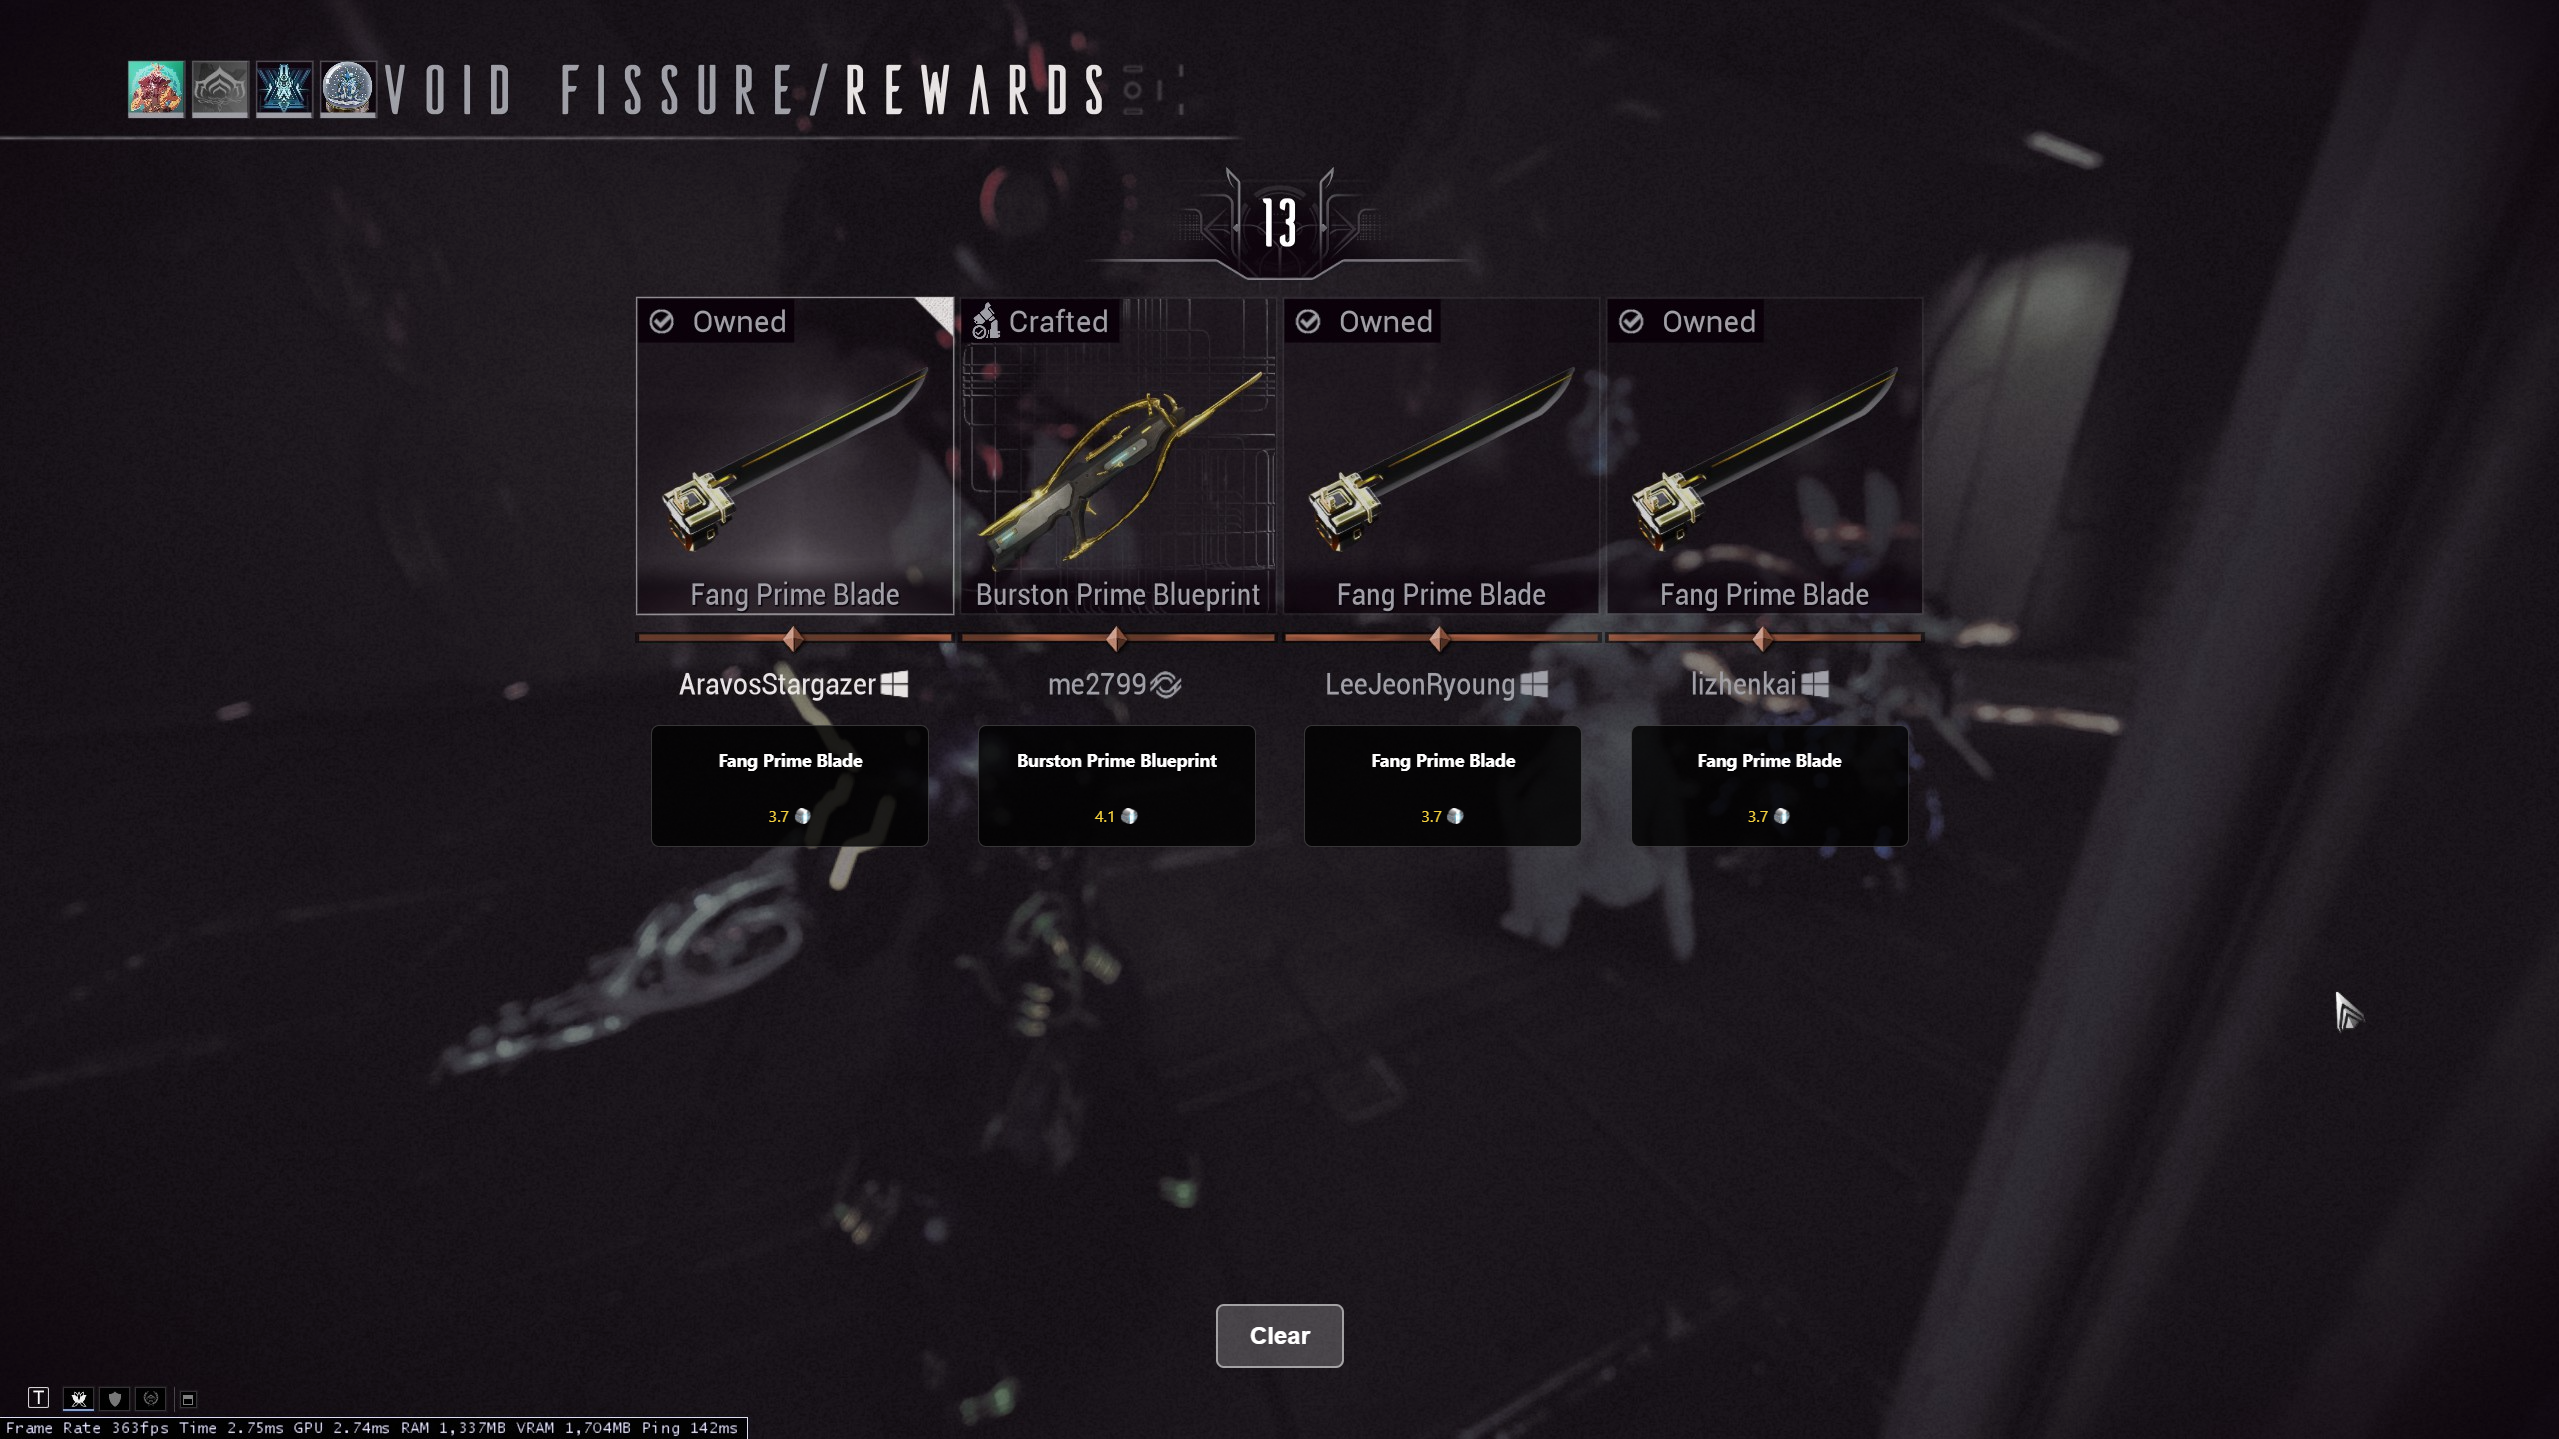
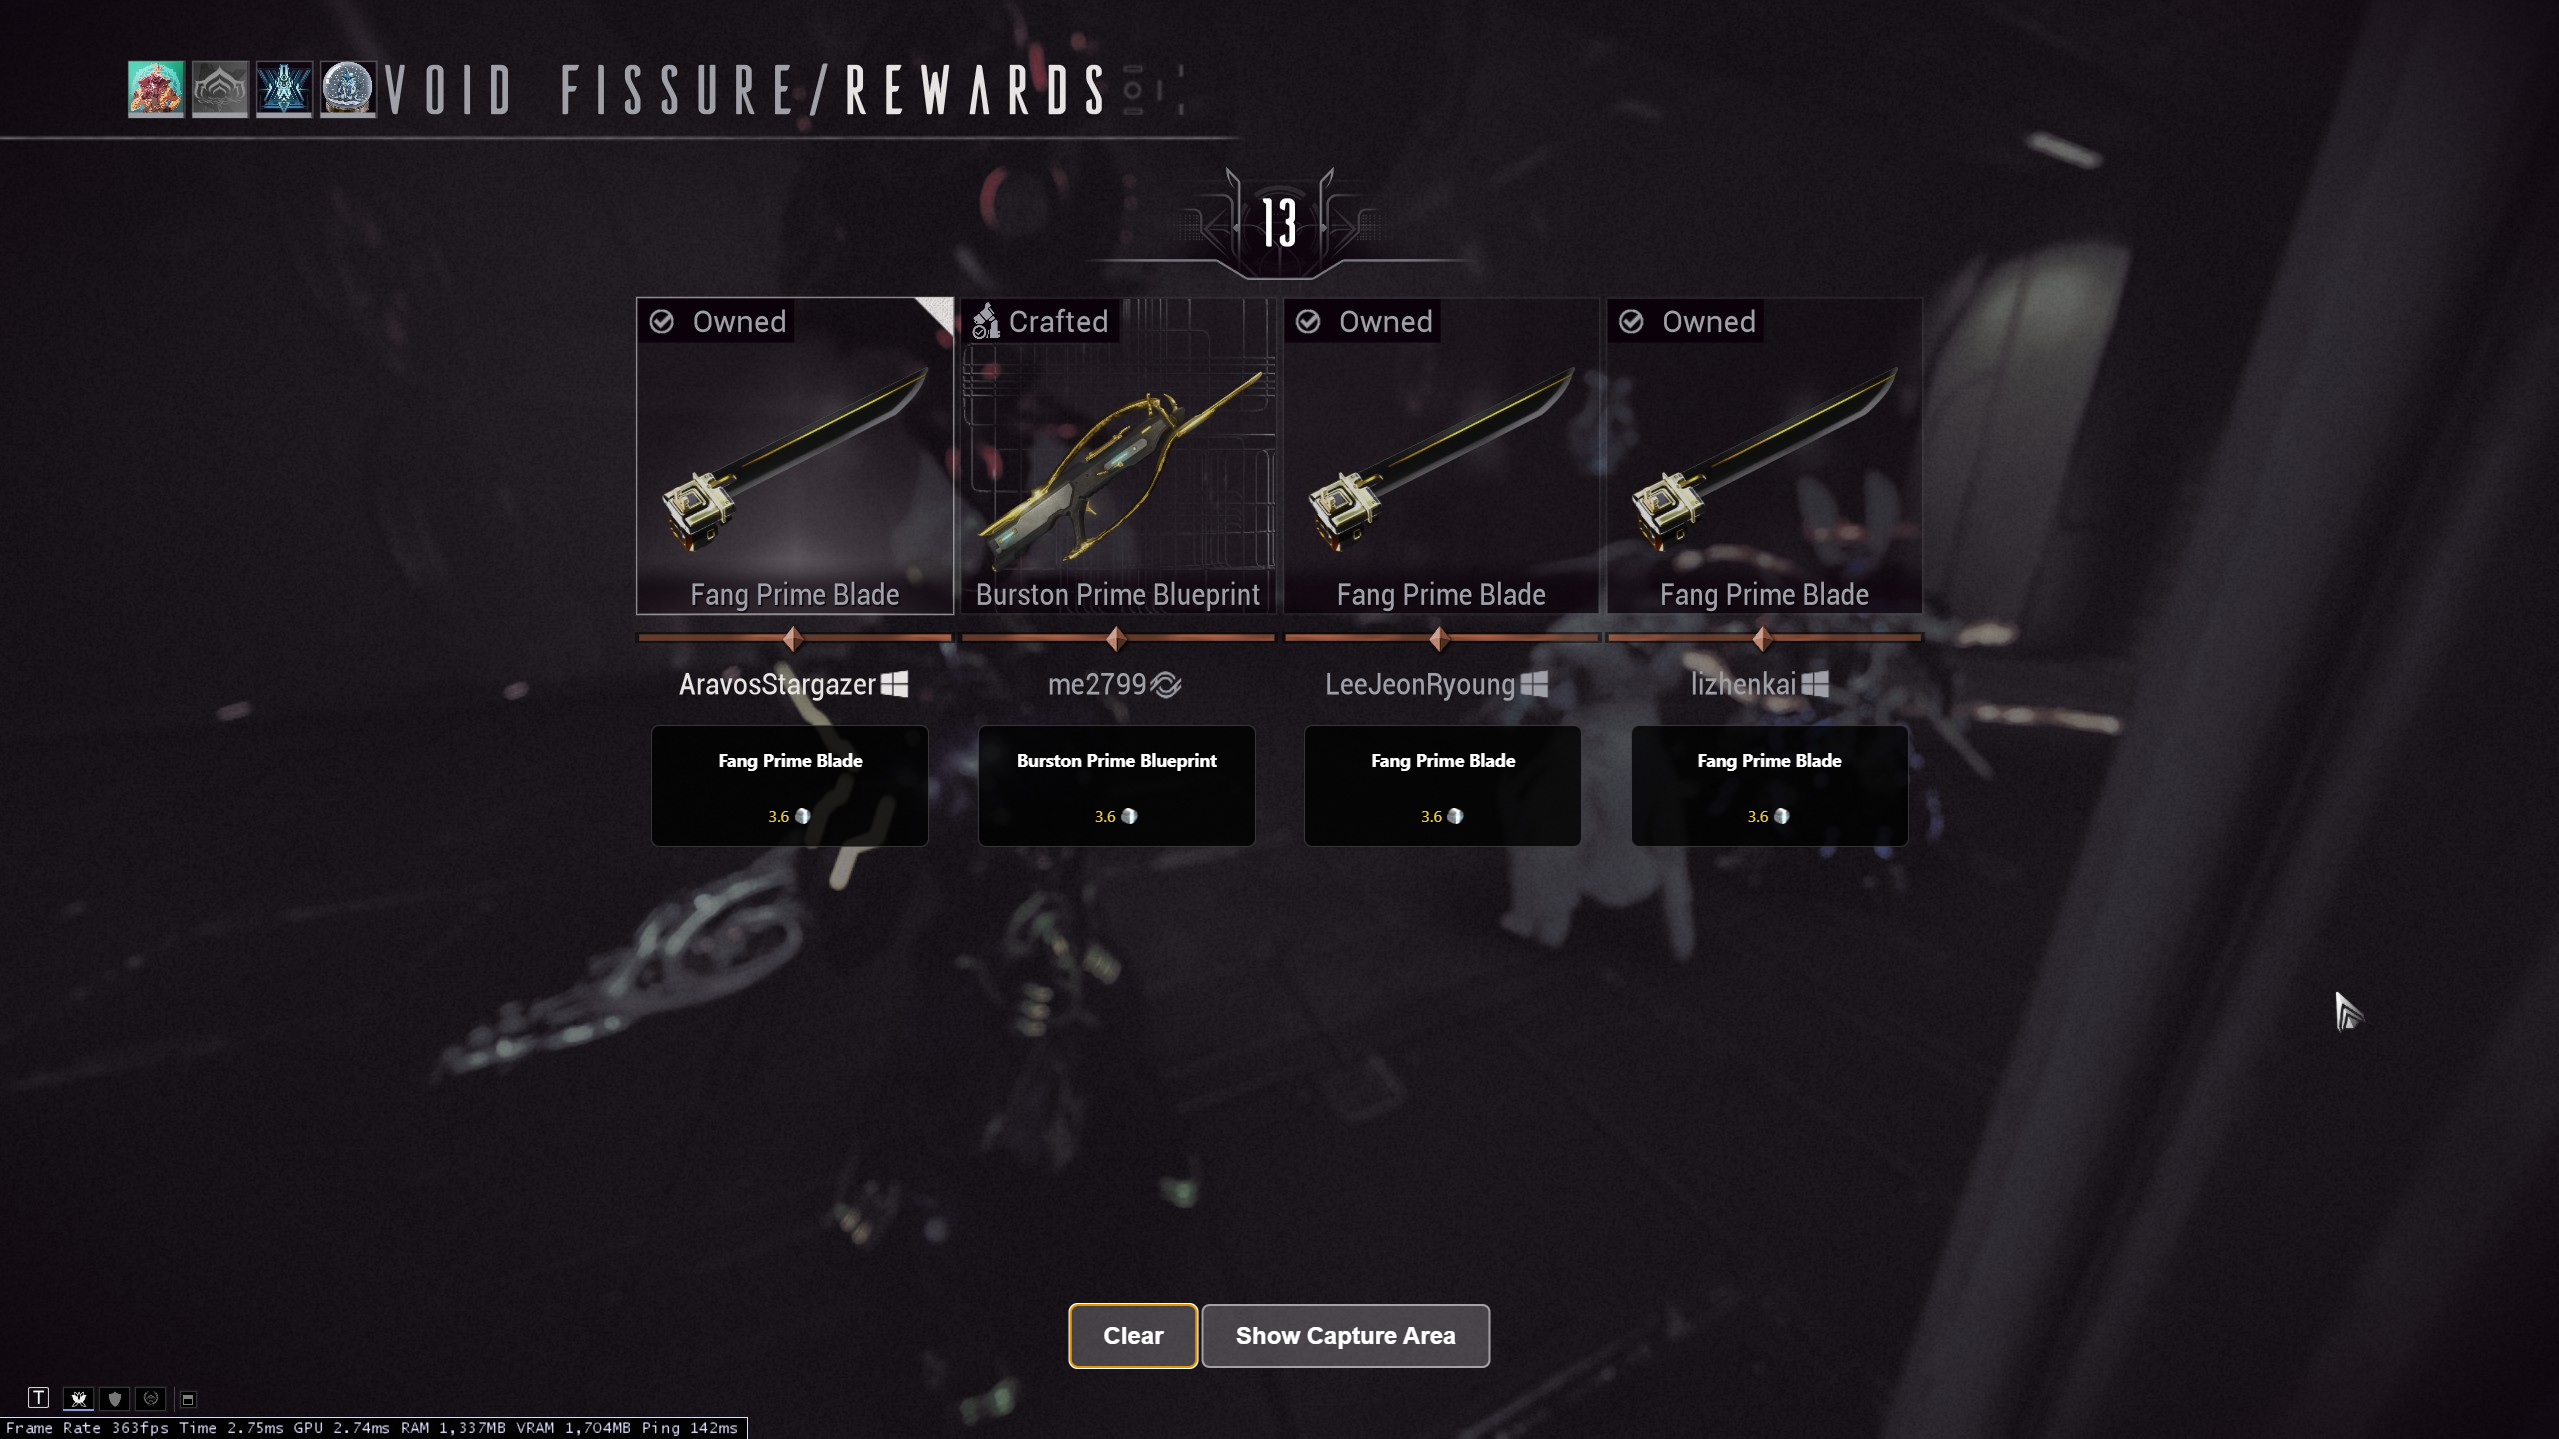
Readme+Screenshots

Changed region(s): [[0.4013, 0.8867, 0.5866, 0.9785]]

diff --git a/README.md b/README.md
@@ -1,43 +1,110 @@
 # Warframe Relic Runner
 
-Warframe Relic Runner is an overlay tool for Warframe that helps you quickly evaluate the average Platinum value of relic rewards, making it easier to decide which Prime part to select.
+**Warframe Relic Runner** is an overlay tool for Warframe that helps you quickly evaluate the average Platinum value of relic rewards, making it easier to decide which Prime Part to select.
 
-## Features
-- Captures a screenshot of your game when you crack open a relic.
-- Extracts text using OCR to identify Prime parts.
-- Fetches the average market value of the Prime parts from Warframe Market.
-- Displays the part values on-screen, allowing you to make informed decisions.
-- Works for solo play or in teams of 1-4 players.
+## 📌 Features
+- 📸 **Screenshot Capture** – Captures a screenshot when you crack open a relic.
+- 🔍 **OCR Extraction** – Uses Tesseract.js to extract text and identify Prime parts.
+- 💰 **Market Price Lookup** – Fetches the average market value from Warframe Market.
+- ✅ **Informed Decision Making** – Displays Prime Part values on-screen to help you choose the best reward.
+- 👥 **Team Support** – Works in solo play or teams of 1–4 players.
+- 🎛 **Adjustable Capture Area** – Use slider controls to modify the OCR capture region.
+- ⚖ **TOS Friendly** – This tool only captures screenshots and does **not** read game memory, making it compliant with Warframe’s Terms of Service.
 
-## Installation & Setup
-### Clone the repository
+---
+
+## 🛠 Installation & Setup
+
+### 🔽 Clone the Repository
 ```sh
 git clone https://github.com/Aravos/Warframe-RelicRunner.git
-cd WF-GarbageGauge
+cd Warframe-RelicRunner
 ```
 
-### Install dependencies
+### 📦 Install Dependencies
 ```sh
 npm install
 ```
 
-### Run the application
+### ▶ Run the Application
 ```sh
 npm run
 ```
 
-## Usage
-1. Launch Warframe normally.
-2. Open the overlay application.
-3. When you crack open a relic, switch to the overlay and click **Capture Screenshot**.
-4. Wait a few seconds for the average Platinum value to load on the screen.
-5. Select the Prime part you want.
-6. Click **Clear** to reset the overlay.
-7. Repeat the process as needed.
+---
 
-## Screenshots
-![Overlay Example](screenshots/overlay-example.png)
-![Prime Part Selection](screenshots/prime-selection.png)
-![In A 3 person Squad with Forma](screenshots/3squad-forma.png)
-![2 person Squad](screenshots/2squad.png)
-![Duplicates](screenshots/duplicates.png)
+## 🎮 Usage Guide
+1. **Launch Warframe** as usual.
+2. **Open the overlay application.**
+3. When you crack open a relic, click **Capture Screenshot** in the overlay.
+4. Wait a few seconds for the market values to load on-screen.
+5. **Choose the Prime part** based on the displayed Platinum value.
+6. Click **Clear** to reset the overlay.
+7. **Adjust the Capture Area (Optional)**  
+   - Click **Show Capture Area** to reveal the slider controls.
+   - Adjust the **Left, Top, Width, and Height** values to refine the OCR region.
+   - The overlay updates dynamically to reflect your changes.
+8. Repeat the process for each relic.
+
+---
+
+## 🎛 Slider Controls (Capture Area Adjustment)
+The overlay includes **four sliders** that let you fine-tune the capture region:
+
+- **Left (%)** – Adjusts the horizontal starting position.
+- **Top (%)** – Adjusts the vertical starting position.
+- **Width (%)** – Adjusts the width of the capture area.
+- **Height (%)** – Adjusts the height of the capture area.
+
+📌 *Sliders are hidden by default. Click **Show Capture Area** to enable them.*
+
+---
+
+<table>
+  <tr>
+    <th style="text-align:center;">Overlay</th>
+    <th style="text-align:center;">Prime Selection</th>
+    <th style="text-align:center;">Squad with Forma</th>
+  </tr>
+  <tr>
+    <td><img src="screenshots/overlay-example.png" alt="Overlay Example"></td>
+    <td><img src="screenshots/prime-selection.png" alt="Prime Part Selection"></td>
+    <td><img src="screenshots/3squad-forma.png" alt="3-Person Squad"></td>
+  </tr>
+</table>
+
+<table>
+  <tr>
+    <th style="text-align:center;">Select Capture Area</th>
+    <th style="text-align:center;">Capture Area</th>
+  </tr>
+  <tr>
+    <td><img src="screenshots/captureArea.png" alt="Select Capture Area"></td>
+    <td><img src="screenshots/CaptureAreaShowcase.png" alt="Capture Area"></td>
+  </tr>
+</table>
+
+<table>
+  <tr>
+    <th style="text-align:center;">2-Person Squad</th>
+    <th style="text-align:center;">Duplicate Rewards</th>
+  </tr>
+  <tr>
+    <td><img src="screenshots/2squad.png" alt="2-Person Squad"></td>
+    <td><img src="screenshots/duplicates.png" alt="Duplicates"></td>
+  </tr>
+</table>
+
+---
+## 🔧 Technologies Used
+- ⚡ **Electron.js** – For creating the overlay.
+- 🧠 **Tesseract.js** – For Optical Character Recognition (OCR).
+- 🖼 **Sharp** – For image processing (cropping, greyscaling, gamma correction).
+- 🌐 **Node.js** – Backend processing and file system access.
+- 📊 **Warframe Market API** – Fetching real-time Platinum prices.
+- 🎨 **HTML, CSS, JavaScript** – Frontend design, user interaction, and slider UI.
+
+---
+
+## 📜 License
+This project is licensed under the **MIT License**.
